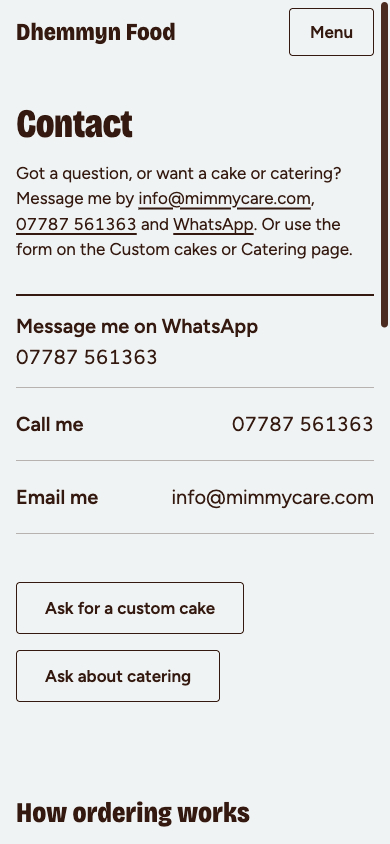
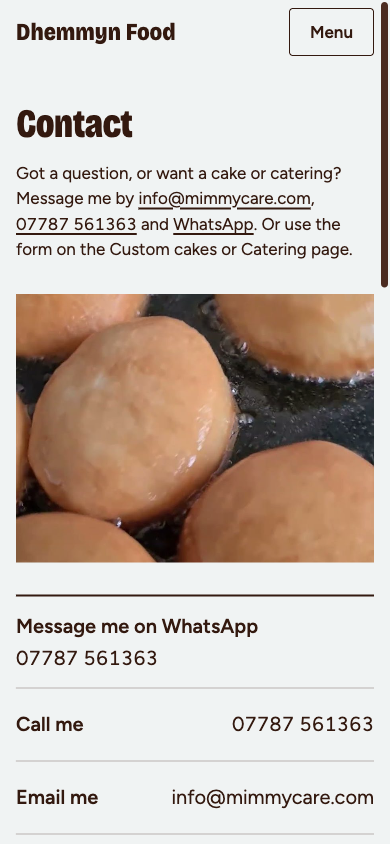
Contact photo

diff --git a/app/src/pages/Contact.tsx b/app/src/pages/Contact.tsx
@@ -2,6 +2,7 @@ import ButtonLink from '../components/ButtonLink'
 import ContactInline from '../components/ContactInline'
 import HowOrderingWorks from '../components/HowOrderingWorks'
 import RuledRow from '../components/RuledRow'
+import { doughnuts } from '../data/recipes'
 import { contact } from '../data/site'
 
 export default function Contact() {
@@ -27,20 +28,27 @@ export default function Contact() {
         </p>
       </div>
 
-      {/* Contact details: three large ruled rows, each opening in the visitor's own app.
-          The closing button jumps back up here. */}
-      <section
-        id="contact-details"
-        tabIndex={-1}
-        aria-label="Contact details"
-        className="page-width pb-12 md:pb-16"
-      >
-        <ul className="max-w-[48rem] border-t-2 border-ink">
-          <RuledRow href={contact.whatsappHref} label="Message me on WhatsApp" value={contact.phoneDisplay} />
-          <RuledRow href={`tel:${contact.phoneTel}`} label="Call me" value={contact.phoneDisplay} />
-          <RuledRow href={`mailto:${contact.email}`} label="Email me" value={contact.email} />
-        </ul>
-      </section>
+      {/* Contact details: three large ruled rows, each opening in the visitor's own app, with one of
+          the owner's photos: above the rows on a phone, to their right from 1128 px. The photo is
+          cropped to 4:3 in CSS so the rows stay in the first screen on a phone, and it stays outside
+          the section below, because the closing button jumps back up to that section. */}
+      <div className="page-width pb-12 md:pb-16 lg:grid lg:grid-cols-[minmax(0,1fr)_26rem] lg:items-start lg:gap-12">
+        <img
+          src={doughnuts.photo}
+          alt={doughnuts.alt}
+          width={900}
+          height={1600}
+          decoding="async"
+          className="photo mb-8 aspect-[4/3] w-full max-w-[26rem] object-cover lg:order-2 lg:mb-0"
+        />
+        <section id="contact-details" tabIndex={-1} aria-label="Contact details" className="lg:order-1">
+          <ul className="max-w-[48rem] border-t-2 border-ink">
+            <RuledRow href={contact.whatsappHref} label="Message me on WhatsApp" value={contact.phoneDisplay} />
+            <RuledRow href={`tel:${contact.phoneTel}`} label="Call me" value={contact.phoneDisplay} />
+            <RuledRow href={`mailto:${contact.email}`} label="Email me" value={contact.email} />
+          </ul>
+        </section>
+      </div>
 
       {/* Forms: two links to the enquiry pages, as outlined buttons. */}
       <div className="page-width pb-12 md:pb-16">

diff --git a/06-QA/DESIGN-AUDIT.md b/06-QA/DESIGN-AUDIT.md
@@ -26,7 +26,7 @@ Results: PASS, FAIL, FIXED (failed, then fixed and retested), PARTIAL, NOT TESTE
 
 ## Wow check, every page (2 October 2026)
 
-*Scores are the assistant's own, from screenshots at 390 and 1280 px and from measurements, not the owner's. Each cell is round 1 / round 2 (after the fixes below). Home had three rounds available and needed none after the earlier rounds. Every other page had one round. Screenshots: 06-QA/screenshots/{home,recipes,custom-cakes,catering,about-me,contact,privacy,not-found}-{390,1280}-{top,scrolled}.png.*
+*Scores are the assistant's own, from screenshots at 390 and 1280 px and from measurements, not the owner's. Each cell is round 1 / round 2 (after the fixes below). Contact distinctiveness has a third value, scored after the owner's doughnuts photo was added. Home had three rounds available and needed none after the earlier rounds. Every other page had one round. Screenshots: 06-QA/screenshots/{home,recipes,custom-cakes,catering,about-me,contact,privacy,not-found}-{390,1280}-{top,scrolled}.png.*
 
 | Page | First impression | Distinctiveness | Craft and detail | Typography | Motion | Phone at 390 px |
 |---|---|---|---|---|---|---|
@@ -35,7 +35,7 @@ Results: PASS, FAIL, FIXED (failed, then fixed and retested), PARTIAL, NOT TESTE
 | Custom cakes | 7 / 8 | 8 / 8 | 7 / 8 | 7 / 8 | 8 / 8 | 8 / 8 |
 | Catering | 7 / 8 | 7 / **7** | 7 / 8 | 7 / 8 | 8 / 8 | 8 / 8 |
 | About me | 8 / 8 | 8 / 8 | 8 / 8 | 7 / 8 | 8 / 8 | 8 / 8 |
-| Contact | 7 / 8 | 7 / **7** | 8 / 8 | 7 / 8 | 8 / 8 | 8 / 8 |
+| Contact | 7 / 8 | 7 / 7 / **8** | 8 / 8 | 7 / 8 | 8 / 8 | 8 / 8 |
 | Privacy notice | **6 / 6** | **6 / 6** | 8 / 8 | 8 / 8 | 8 / 8 | 8 / 8 |
 | Not found | 7 / 8 | **6 / 7** | 8 / 8 | 8 / 8 | 8 / 8 | 8 / 8 |
 
@@ -47,14 +47,14 @@ Results: PASS, FAIL, FIXED (failed, then fixed and retested), PARTIAL, NOT TESTE
 - Custom cakes: the cake red band with the piped icing is the most distinctive thing outside Home. Round 1 craft was 7 because the long form left its left column empty at 1280 px. The form heading now stays in view beside the form (`position: sticky`, checked: it sits 32 px from the top at a scroll of 1500 px).
 - Catering: the crumb band with a large title is strong, but it has no picture and no drawing, so it looks like a plain form page. Distinctiveness stays 7. No photo of food made for events exists yet ([NEEDS] in CONTENT.md).
 - About me: the profile picture hung from the left edge, the sponge band and the ruled social rows are varied and quiet. Page title fix as above.
-- Contact: three ruled rows, two outlined buttons, the numbered list and a closing band are clear and tappable, but nothing on it is hers except the type and colour. Distinctiveness stays 7.
+- Contact: three ruled rows, two outlined buttons, the numbered list and a closing band are clear and tappable. Round 2 distinctiveness was 7 because nothing on it was hers except the type and colour. The owner's doughnuts photo (above the rows on a phone, to their right from 1128 px) now makes it hers, so distinctiveness is 8, rescored from new screenshots at 390 and 1280 px. It is one tightly cropped frame, a little soft at 416 px wide, and the photo column is taller than the three rows at 1280 px, so it does not score higher than 8. All six Contact scores are now 8 or more.
 - Privacy notice: one line of text on purpose (owner decision, CONTENT.md says so), so first impression and distinctiveness cannot reach 8 until the real notice is written (WEB-32). The title is left at section size on purpose, because a legal page should stay quiet.
 - Not found: the page title now has the Home headline weight, which lifts first impression. Distinctiveness 7: one line, one button, no picture.
 - Motion on every page: hover lift and press feedback on buttons, rows and links, designed focus rings (every Tab stop on Home had one; the new pages use the same classes), one entrance on Home and one on Recipes' lead photo. Nothing else moves.
 
 **Measured, not scored** (Playwright on the owner's preview http://localhost:5175): 0 console errors on all 16 page and width pairs; no sideways scroll; no link, button or summary under 48 px; no broken pictures; one `<title>` on every page; the largest text on Home is the headline at 390 and 1280 px.
 
-**Layout shift** (Chromium's layout shift API, not Lighthouse; on the `npm run preview` build at http://localhost:4175, 390 px wide, cache off, 4 times CPU slowdown, 1.6 Mbps and 150 ms latency): Home 0.0356 (one shift at about 2.6 s in the hero scene), Contact 0.0008, every other page 0. All are under 0.1. Lighthouse layout shift is still NOT TESTED by the assistant: the DevTools Lighthouse tool is not permitted, and the Lighthouse command line is not installed. The owner said they will run Lighthouse themselves on the preview build and send the result.
+**Layout shift** (Chromium's layout shift API, not Lighthouse; on the `npm run preview` build at http://localhost:4175, 390 px wide, cache off, 4 times CPU slowdown, 1.6 Mbps and 150 ms latency): Home 0.0356 (one shift at about 2.6 s in the hero scene), Contact 0.0008 (measured again with the photo in place: same value), every other page 0. All are under 0.1. Lighthouse layout shift is still NOT TESTED by the assistant: the DevTools Lighthouse tool is not permitted, and the Lighthouse command line is not installed. The owner said they will run Lighthouse themselves on the preview build and send the result.
 
 ## Quality floor
 

diff --git a/08-CHANGE-MANAGEMENT/CHANGELOG.md b/08-CHANGE-MANAGEMENT/CHANGELOG.md
@@ -17,6 +17,14 @@
 - Tested: the commands and checks run, and the result
 ```
 
+## [2026-10-02] Contact page: one of the owner's photos
+
+- Change: the Contact page now has one of the owner's own photos, `doughnuts.jpg` (the doughnuts frying), because the page had no picture and could have belonged to anyone. It sits above the three contact rows on a phone and to their right from 1128 px (below 1128 px it is above the rows, left-aligned, no wider than 26 rem or 416 px). It is cropped to 4:3 in CSS, so on a phone it is 358 by 269 px and all three rows are still in the first screen at 390 by 844 px (the last row ends at 833 px). It has no border, radius or shadow, the shared warm filter, width and height set, no link, and the existing alt text "Round golden dough frying in hot oil in a black pan." No word on the page changed. The photo stays outside the "Contact details" section, so the closing "Message me" button still lands on the rows. It reuses the photo and alt text from `data/recipes.ts` (the same hashed file the Recipes page already ships, so no new picture was added to the build).
+- Reason: owner request. The page had no picture of the owner's, so it could have been any business's contact page.
+- Files: app/src/pages/Contact.tsx, 01-PRODUCT/CONTENT.md (Contact: the picture and its alt text, added first), 03-DESIGN/ACCESSIBILITY.md (the photo table: doughnuts.jpg is now used on Recipes and Contact), 03-DESIGN/DESIGN-SYSTEM.md (the Contact row of Section rhythm), 03-DESIGN/UX-SPEC.md (the Contact page plan, item 2), 08-CHANGE-MANAGEMENT/CHANGELOG.md, 06-QA/DESIGN-AUDIT.md (Contact score, reason and layout shift line), the four Contact screenshots in 06-QA/screenshots. Checked and not changed: 03-DESIGN/CREDITS.md (its row has no "used on" column), 08-CHANGE-MANAGEMENT/DECISIONS.md (no mention of Contact photos or doughnuts), 02-ARCHITECTURE/ARCHITECTURE.md (the route table only), every other page.
+- Tested: PASS: `npm run build` and `npm run lint`, no errors and no warnings. PASS (Playwright on the owner's preview http://localhost:5175, /contact at 320, 390, 744, 1127, 1128, 1280 and 1920 px): the photo loads (`doughnuts.jpg`, ratio 1.33), is 416 px wide at most, is above the rows up to 1127 px and beside them from 1128 px; it has the warm filter, a 0 px radius and no border; no sideways scroll; no link or button under 48 px; one title; no console errors; the page words are unchanged; the closing button still moves focus to "Contact details". Looked at screenshots at 390 and 1280 px. PASS (Chromium layout shift API on the owner's preview build http://localhost:4175/contact, 390 px, cache off, 4 times CPU slowdown, 1.6 Mbps, 150 ms latency): 0.0008, the same as before the photo, under 0.1; this is not Lighthouse. NOT TESTED: the 744 to 1127 px layout by eye, VoiceOver reading the alt text, Safari and Firefox, and Lighthouse layout shift (the owner will run it).
+- Screenshots and score: the four Contact screenshots in 06-QA/screenshots (contact-390-top, contact-390-scrolled, contact-1280-top, contact-1280-scrolled) were retaken on the owner's preview and looked at. Contact was scored again in 06-QA/DESIGN-AUDIT.md: distinctiveness 7 to 8 (the photo is hers; one soft, tightly cropped frame keeps it from going higher), the other five scores stay at 8. The Contact reason line and the layout shift line in DESIGN-AUDIT.md were updated. These scores are the assistant's own, not the owner's.
+
 ## [2026-10-02] Social links in the footer: icons and accessible names
 
 - Change: the four footer social links (Instagram, TikTok, YouTube, Threads) now show a 20 px decorative icon before the platform name, with the underline on the name only. The icons are drawn inline in the new `SocialIcon.tsx` from Simple Icons (CC0 1.0; the logos stay the owners' trademarks), so nothing loads from another company. Each link's accessible name is now "Dhemmyn Food on Instagram (opens in a new tab)" (and the same for the other three), through a new `label` option on `ExternalLink`, and the visible platform name is inside it. The owner's request said "Priya's Kitchen on Instagram" as an example from another project, so the business name here is Dhemmyn Food. This is the one exception to the "no icons" rule in DESIGN-SYSTEM.md and ACCESSIBILITY.md; it stays in the footer, and those two files, CONTENT.md, UX-SPEC.md and CREDITS.md say so. Method recorded in SOCIAL.md ("Method") and INTEGRATIONS.md: plain links and pictures that link out, never an embed script. Checked: no change was needed for WhatsApp, which already is a click-to-chat link, https://wa.me/447787561363 (the number in SOCIAL.md), in the footer and on the Contact page.

diff --git a/03-DESIGN/ACCESSIBILITY.md b/03-DESIGN/ACCESSIBILITY.md
@@ -146,7 +146,7 @@ I looked at every file in 03-DESIGN/photos. Alt text is 8 to 15 words, says what
 | photos/bread-roll-5-minute.jpg | Unbaked bread rolls in a metal tray, glazed, the middle one covered in sesame seeds. | Unbaked bread rolls in a metal tray, glazed and covered in sesame seeds. | Home (Start with a recipe), Recipes |
 | photos/cookies.jpg | A baked cookie with a square of chocolate and sea salt flakes on top, on baking paper. | A baked cookie topped with a square of chocolate and flaky sea salt. | Home (Start with a recipe), Recipes |
 | photos/banana-bread.jpg | Slices of dark chocolate banana bread with Oreo pieces inside, lying on white paper. The owner confirmed it is a chocolate banana bread. | Slices of dark chocolate banana bread with pieces of Oreo biscuit inside, on white paper. | Recipes |
-| photos/doughnuts.jpg | Round golden dough frying in hot oil in a black pan. | Round golden dough frying in hot oil in a black pan. | Recipes |
+| photos/doughnuts.jpg | Round golden dough frying in hot oil in a black pan. | Round golden dough frying in hot oil in a black pan. | Recipes, Contact |
 | photos/dodo.jpg | Dark deep-fried pieces with flecks of red chilli, on a white plate. | Pieces of dark, deep-fried food with flecks of red chilli, on a white plate. | Recipes |
 | photos/oats.jpg | A clear tub of berry compote swirled with creamy yoghurt. | A clear tub of berry compote swirled with creamy yoghurt. | Recipes |
 | photos/instagram/birthday-cake-candles.jpg | A rectangular dark pink cake with dark piped borders, cream piped writing and tall wavy candles, on a silver board. | A dark pink birthday cake with piped borders, cream writing and tall wavy candles. | Home (From my kitchen) |

diff --git a/03-DESIGN/DESIGN-SYSTEM.md b/03-DESIGN/DESIGN-SYSTEM.md
@@ -124,7 +124,7 @@ No two sections on a page share a layout. Every section has one considered detai
 | Custom cakes | Cake red band with the piped drawing (see Illustration style). Enquiry form, one column up to 560 px, 2 px ink rule above. "Message me instead", quiet. How ordering works: the only numbered list, the numbers set in Display 800 because it is a real sequence. Common questions as a ruled disclosure list. Closing sponge band. |
 | Catering | Same order as Custom cakes. The opening band is crumb with no drawing, so red stays with cakes. |
 | About me | Introduction with the 200 px profile picture hung from the left edge. Four large social links ending the page. |
-| Contact | Three large ruled rows (WhatsApp, call, email), form links, How ordering works, closing step. |
+| Contact | Three large ruled rows (WhatsApp, call, email) with one of her photos, `doughnuts.jpg`, cropped to 4:3 and no wider than 26 rem (416 px): above the rows on a phone, to their right from 1128 px (added on 2 October 2026 on the owner's instruction, so the page is not anyone's). Form links, How ordering works, closing step. |
 | Privacy notice, Not found | Plain reading pages, one column, 68 ch. |
 
 ## Illustration style

diff --git a/03-DESIGN/UX-SPEC.md b/03-DESIGN/UX-SPEC.md
@@ -128,7 +128,7 @@ Seven pages. The owner chose to keep Privacy notice and Contact (2 October 2026)
 *About 60 words. Under one minute.*
 
 1. **Opening:** the page heading and the approved introduction. (You supply: nothing.)
-2. **Contact details:** three large tappable rows for WhatsApp, phone and email. Each also shows as plain text. (You supply: nothing. The details come from BUSINESS-RULES.md.)
+2. **Contact details:** three large tappable rows for WhatsApp, phone and email. Each also shows as plain text. One of the owner's photos, `doughnuts.jpg` (alt text in CONTENT.md, Contact), sits beside the rows from 1128 px and above them on a phone (added on 2 October 2026). (You supply: nothing. The details come from BUSINESS-RULES.md.)
 3. **Forms:** two links, "Ask for a custom cake" and "Ask about catering". (You supply: nothing.)
 4. **How ordering works:** the approved two numbered steps and "This website does not take payments." (You supply: nothing.)
 

diff --git a/01-PRODUCT/CONTENT.md b/01-PRODUCT/CONTENT.md
@@ -364,6 +364,10 @@ Page description: Message me at Dhemmyn Food by email, phone or WhatsApp. Or sen
 
 Heading: Contact
 
+Picture: photos/doughnuts.jpg. Alt text: Round golden dough frying in hot oil in a black pan. (the same words as on Recipes, the owner's own photo)
+
+*Added on 2 October 2026 on the owner's instruction, so the page is not a page that could belong to anyone. It sits beside the contact details from 1128 px and above them on a phone, cropped to 4:3 in CSS so the three rows stay in the first screen on a phone. It is not a link. No other word on the page changes.*
+
 ### Contact details
 
 Three large rows that can be tapped. Each also shows the number or address as plain text, so a visitor on a laptop can copy it. The details come from BUSINESS-RULES.md, "Business details": [WhatsApp link and number], [phone number], [email address]. They are shown together, in this order. Each row opens in the visitor's own app.
